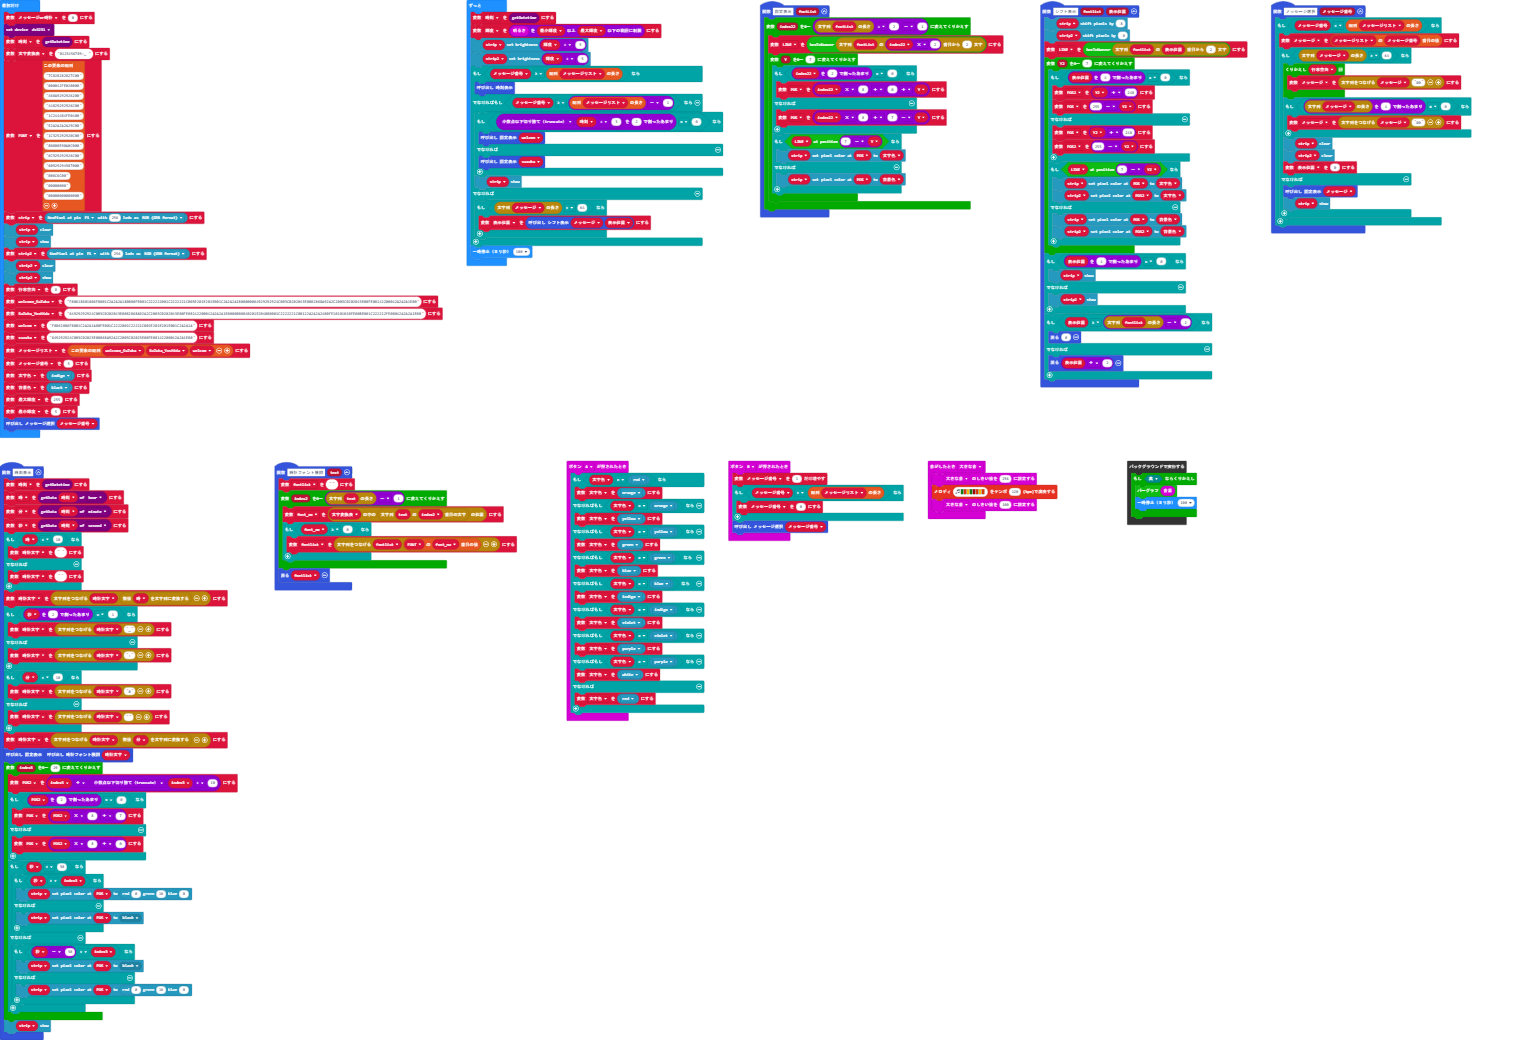
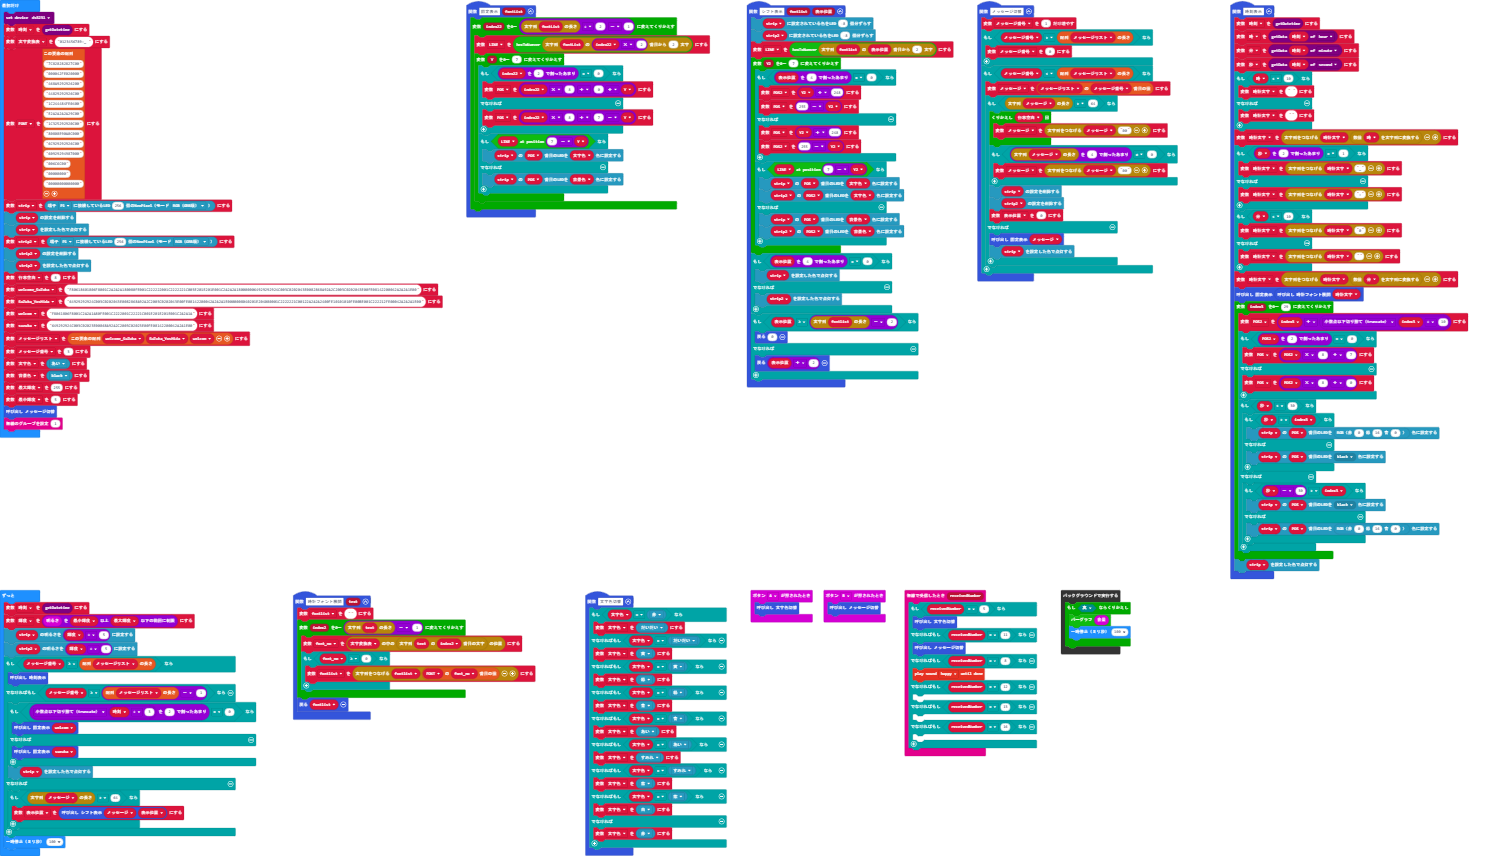
Update pxt.json, main.blocks, main.ts

diff --git a/main.ts b/main.ts
@@ -8,6 +8,21 @@ function 時計フォント展開 (text: string) {
     }
     return fontlist
 }
+radio.onReceivedNumber(function (receivedNumber) {
+    if (receivedNumber == 5) {
+        文字色切替()
+    } else if (receivedNumber == 11) {
+        メッセージ切替()
+    } else if (receivedNumber == 8) {
+        soundExpression.happy.playUntilDone()
+    } else if (receivedNumber == 12) {
+    	
+    } else if (receivedNumber == 13) {
+    	
+    } else if (receivedNumber == 16) {
+    	
+    }
+})
 function 固定表示 (fontList: string) {
     for (let index22 = 0; index22 <= fontList.length / 2 - 1; index22++) {
         LINE = bit.hexToNumber(fontList.substr(index22 * 2, 2))
@@ -57,6 +72,32 @@ function シフト表示 (fontlist: string, 表示位置: number) {
     }
 }
 input.onButtonPressed(Button.A, function () {
+    文字色切替()
+})
+function メッセージ切替 () {
+    メッセージ番号 += 1
+    if (メッセージ番号 > メッセージリスト.length) {
+        メッセージ番号 = 0
+    }
+    if (メッセージ番号 < メッセージリスト.length) {
+        メッセージ = メッセージリスト[メッセージ番号]
+        if (メッセージ.length > 64) {
+            for (let index = 0; index < 行末空白; index++) {
+                メッセージ = "" + メッセージ + "00"
+            }
+            if (メッセージ.length % 4 != 0) {
+                メッセージ = "" + メッセージ + "00"
+            }
+            strip.clear()
+            strip2.clear()
+            表示位置 = 0
+        } else {
+            固定表示(メッセージ)
+            strip.show()
+        }
+    }
+}
+function 文字色切替 () {
     if (文字色 == neopixel.colors(NeoPixelColors.Red)) {
         文字色 = neopixel.colors(NeoPixelColors.Orange)
     } else if (文字色 == neopixel.colors(NeoPixelColors.Orange)) {
@@ -76,37 +117,9 @@ input.onButtonPressed(Button.A, function () {
     } else {
         文字色 = neopixel.colors(NeoPixelColors.Red)
     }
-})
-function メッセージ選択 (メッセージ番号: number) {
-    if (メッセージ番号 < メッセージリスト.length) {
-        メッセージ = メッセージリスト[メッセージ番号]
-        if (メッセージ.length > 64) {
-            for (let index = 0; index < 行末空白; index++) {
-                メッセージ = "" + メッセージ + "00"
-            }
-            if (メッセージ.length % 4 != 0) {
-                メッセージ = "" + メッセージ + "00"
-            }
-            strip.clear()
-            strip2.clear()
-            表示位置 = 0
-        } else {
-            固定表示(メッセージ)
-            strip.show()
-        }
-    }
 }
-input.onSound(DetectedSound.Loud, function () {
-    input.setSoundThreshold(SoundThreshold.Loud, 256)
-    music.playMelody("G B A G C5 B A B ", 120)
-    input.setSoundThreshold(SoundThreshold.Loud, 100)
-})
 input.onButtonPressed(Button.B, function () {
-    メッセージ番号 += 1
-    if (メッセージ番号 > メッセージリスト.length) {
-        メッセージ番号 = 0
-    }
-    メッセージ選択(メッセージ番号)
+    メッセージ切替()
 })
 function 時刻表示 () {
     時刻 = rtc.getDatetime()
@@ -176,7 +189,6 @@ let strip: neopixel.Strip = null
 let FONT: string[] = []
 let 文字変換表 = ""
 let 時刻 = 0
-let メッセージor時計 = 0
 rtc.setDevice(rtcType.ds3231)
 時刻 = rtc.getDatetime()
 文字変換表 = "0123456789:_ "
@@ -198,7 +210,8 @@ let suzuka = "649292924C003C02023E00868A92A2C2003C02023E00FE08142200042A2A1E00"
 背景色 = neopixel.colors(NeoPixelColors.Black)
 let 最大輝度 = 255
 let 最小輝度 = 5
-メッセージ選択(メッセージ番号)
+メッセージ切替()
+radio.setGroup(1)
 basic.forever(function () {
     時刻 = rtc.getDatetime()
     輝度 = Math.constrain(input.lightLevel(), 最小輝度, 最大輝度)
